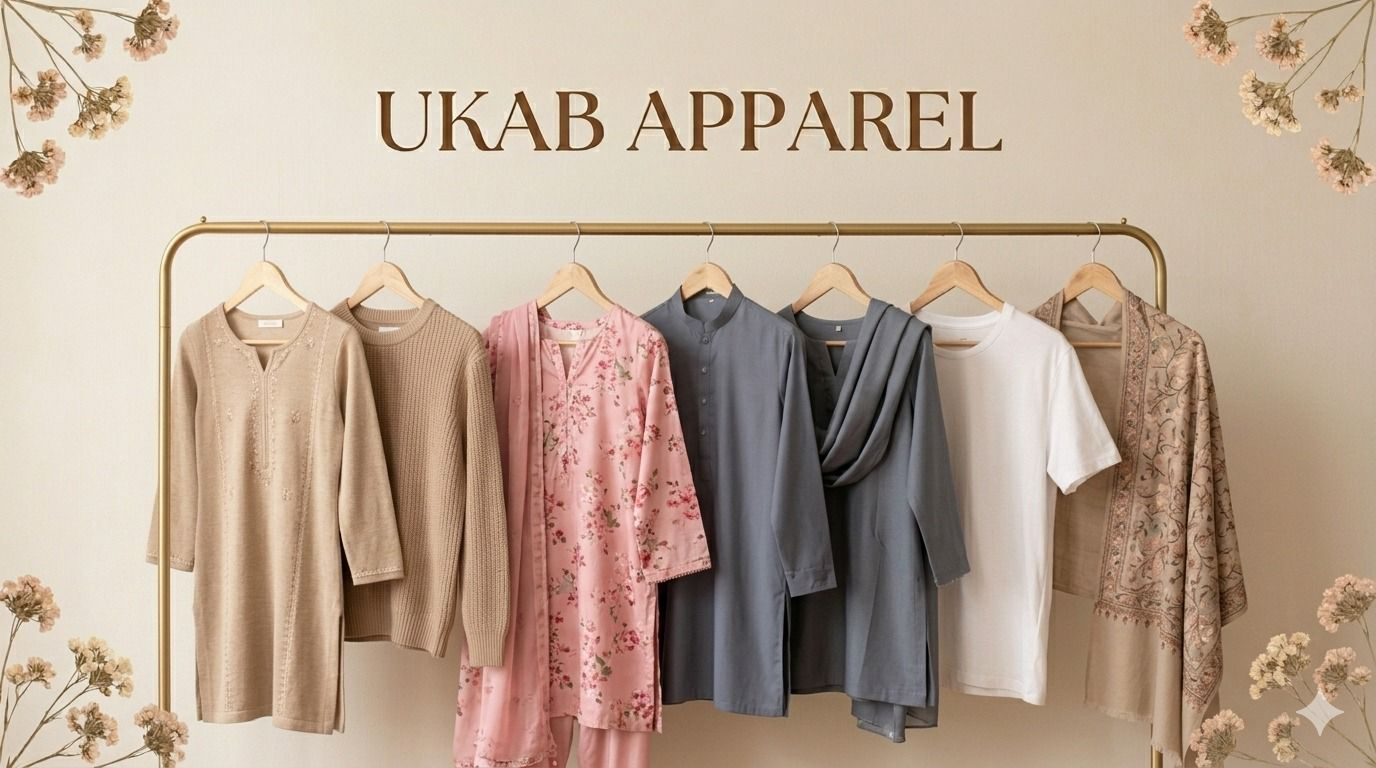
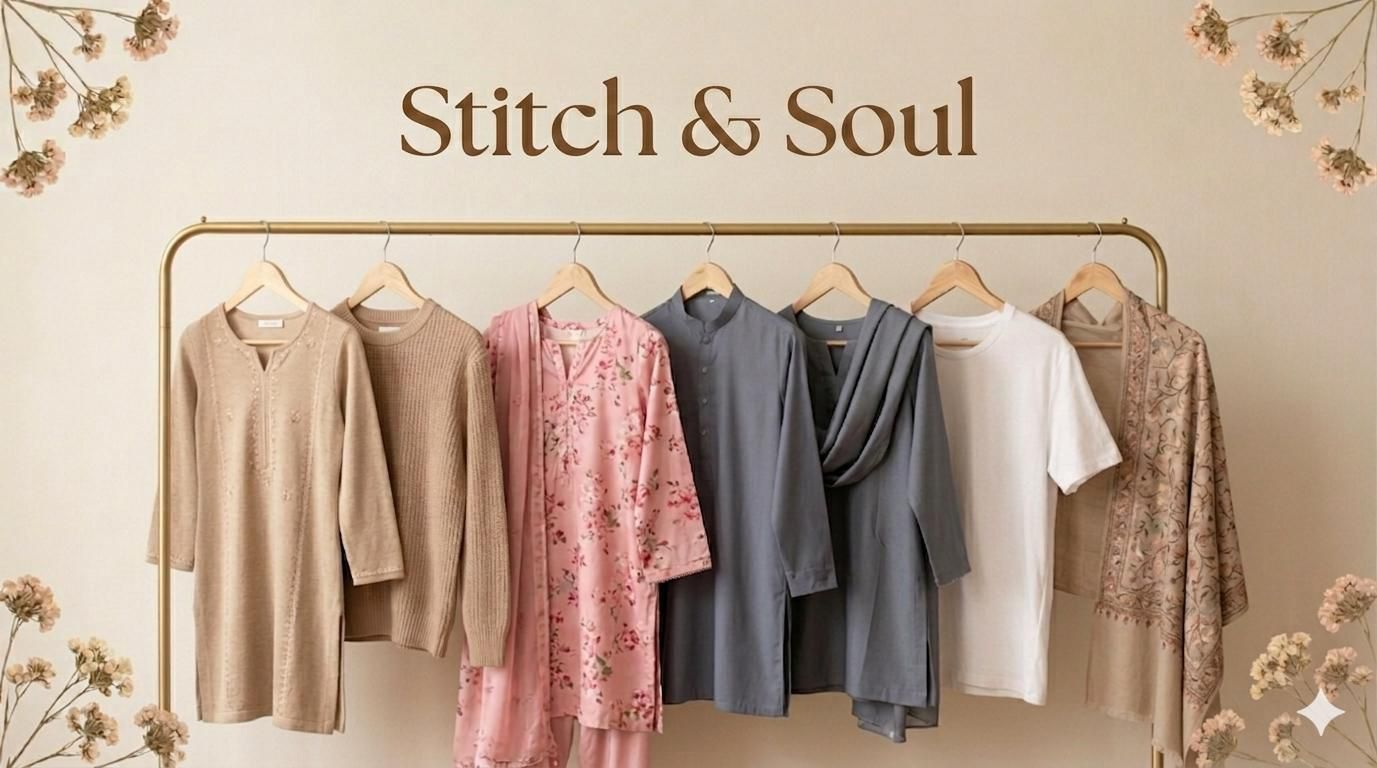
changes

diff --git a/script.js b/script.js
@@ -5,32 +5,61 @@
 
 // ── PRODUCT DATABASE ─────────────────────────────────────────
 const PRODUCTS = [
+  // ── EASTERN MEN ──────────────────────────────────────
   {
     id: 1,
-    name: "The Oxford Linen Shirt",
-    price: 145,
-    category: "casual",
-    sizes: ["XS","S","M","L","XL"],
-    colors: ["Ivory","Sand","Slate"],
-    description: "Meticulously tailored from 100% Belgian linen, the Oxford Shirt delivers effortless refinement for the modern wardrobe. Relaxed yet structured, it drapes beautifully.",
-    features: ["100% Premium Belgian Linen","Relaxed Tailored Fit","Ethically crafted in our Milan atelier"],
-    image: "images/WhatsApp Image 2026-05-07 at 7.04.36 PM.jpeg",
+    name: "Chocolate Kurta Pajama Set",
+    price: 165,
+    category: "eastern-men",
+    sizes: ["S","M","L","XL","XXL"],
+    colors: ["Chocolate","Cream","Black"],
+    description: "Traditional kurta pajama set in rich chocolate brown. A timeless piece offering comfort and elegance for any occasion. Perfect blend of heritage and contemporary style.",
+    features: ["100% Cotton Blend","Traditional Cut","Embroidered Detailing"],
+    image: "images/eastern male.jpeg",
     badge: null
   },
   {
     id: 2,
-    name: "Pleated Wool Trousers",
-    price: 280,
-    category: "formal",
-    sizes: ["28","30","32","34","36"],
-    colors: ["Charcoal","Navy","Camel"],
-    description: "High-waisted and beautifully draped, these pleated trousers redefine elevated dressing. Cut from a fine Italian wool blend that moves like silk.",
-    features: ["Italian Wool Blend","High-Rise Pleated Cut","Dry Clean Only"],
-    image: "images/WhatsApp Image 2026-05-07 at 7.04.36 PM (1).jpeg",
-    badge: "Bestseller"
+    name: "Cream Linen Kurta Set",
+    price: 148,
+    category: "eastern-men",
+    sizes: ["S","M","L","XL","XXL"],
+    colors: ["Cream","Off-White","Beige"],
+    description: "Lightweight cream linen kurta set ideal for summer gatherings. Breathable fabric with relaxed fit ensures all-day comfort.",
+    features: ["100% Premium Linen","Lightweight","Relaxed Fit"],
+    image: "images/eastern male2.jpeg",
+    badge: null
   },
   {
     id: 3,
+    name: "Midnight Black Formal Kurta",
+    price: 185,
+    category: "eastern-men",
+    sizes: ["S","M","L","XL","XXL"],
+    colors: ["Black","Charcoal","Navy"],
+    description: "Sophisticated black formal kurta for weddings and special events. Structured design with subtle embroidery for an upscale look.",
+    features: ["Premium Cotton","Formal Cut","Hand-stitched"],
+    image: "images/eastern male 3.jpeg",
+    badge: "Bestseller"
+  },
+  
+  // ── EASTERN WOMEN ────────────────────────────────────
+  {
+    id: 4,
+    name: "Embroidered Ethnic Ensemble",
+    price: 195,
+    category: "eastern-women",
+    sizes: ["XS","S","M","L","XL"],
+    colors: ["Crimson","Navy","Sapphire"],
+    description: "Beautiful ethnic ensemble featuring intricate embroidery. Perfect for festivals and celebrations with its vibrant colors and detailed craftsmanship.",
+    features: ["Premium Cotton Blend","Hand-Embroidered","Festival Ready"],
+    image: "images/eastern female.jpeg",
+    badge: "New"
+  },
+  
+  // ── WESTERN WEAR ─────────────────────────────────────
+  {
+    id: 5,
     name: "The Aveline Silk Slip",
     price: 485,
     category: "western",
@@ -39,13 +68,13 @@ const PRODUCTS = [
     description: "Cut on the bias from 100% heavyweight mulberry silk, the Aveline skims the body with a liquid-like fluidity. Designed with meticulous attention to drape.",
     features: ["100% Heavyweight Mulberry Silk (22 Momme)","Bias-cut for a fluid, adaptive fit","Ethically crafted in our Milan atelier"],
     image: "images/WhatsApp Image 2026-05-07 at 7.04.36 PM (2).jpeg",
-    badge: "New"
+    badge: null
   },
   {
-    id: 4,
-    name: "Oxford Wool Blazer",
+    id: 6,
+    name: "Structured Wool Blazer",
     price: 345,
-    category: "casual",
+    category: "western",
     sizes: ["XS","S","M","L","XL"],
     colors: ["Navy","Charcoal","Camel"],
     description: "Structured wool blend with satin lapels. A cornerstone of the considered wardrobe — equally commanding in a boardroom or gallery opening.",
@@ -54,7 +83,7 @@ const PRODUCTS = [
     badge: null
   },
   {
-    id: 5,
+    id: 7,
     name: "Silk Whisper Blouse",
     price: 195,
     category: "western",
@@ -66,7 +95,7 @@ const PRODUCTS = [
     badge: null
   },
   {
-    id: 6,
+    id: 8,
     name: "Artisan Leather Boots",
     price: 320,
     category: "western",
@@ -78,10 +107,10 @@ const PRODUCTS = [
     badge: null
   },
   {
-    id: 7,
-    name: "Cable Curator Knit",
+    id: 9,
+    name: "Premium Cable Knit",
     price: 195,
-    category: "casual",
+    category: "western",
     sizes: ["XS","S","M","L","XL"],
     colors: ["Sage","Oat","Charcoal"],
     description: "Heavyweight cotton-cashmere cable knit. The kind of sweater you reach for every morning without a second thought.",
@@ -90,19 +119,7 @@ const PRODUCTS = [
     badge: null
   },
   {
-    id: 8,
-    name: "The Linen Drape Dress",
-    price: 248,
-    category: "eastern",
-    sizes: ["XS","S","M","L"],
-    colors: ["Sage","Dusty Rose","Ivory"],
-    description: "Ethereal linen dress with a signature drape silhouette. Moves like water. Wears like a second skin.",
-    features: ["100% European Linen","Adjustable self-tie belt","Hand-finished hems"],
-    image: "images/WhatsApp Image 2026-05-07 at 7.04.38 PM (3).jpeg",
-    badge: null
-  },
-  {
-    id: 9,
+    id: 10,
     name: "Pearl Drop Necklace",
     price: 95,
     category: "western",
@@ -111,10 +128,10 @@ const PRODUCTS = [
     description: "Delicate gold chain with a single freshwater pearl drop. The detail that elevates everything.",
     features: ["18K Gold-Plated Chain","Freshwater Pearl Pendant","Lobster clasp closure"],
     image: "images/WhatsApp Image 2026-05-07 at 7.04.39 PM.jpeg",
-    badge: "New"
+    badge: null
   },
   {
-    id: 10,
+    id: 11,
     name: "Rattan Day Bag",
     price: 210,
     category: "western",
@@ -125,16 +142,66 @@ const PRODUCTS = [
     image: "images/WhatsApp Image 2026-05-07 at 7.04.45 PM.jpeg",
     badge: null
   },
+  
+  // ── SHAWLS ───────────────────────────────────────────
   {
-    id: 11,
-    name: "Oat Knit Sweater",
-    price: 140,
-    category: "casual",
-    sizes: ["XS","S","M","L","XL"],
-    colors: ["Oat","Stone","Navy"],
-    description: "Minimalist ribbed sweater in a warm oat tone. The foundation of any thoughtful wardrobe.",
-    features: ["Merino Wool Blend","Relaxed ribbed silhouette","Machine washable"],
-    image: "images/WhatsApp Image 2026-05-07 at 7.04.38 PM (1).jpeg",
+    id: 12,
+    name: "Charcoal & Burgundy Fringed Wrap",
+    price: 85,
+    category: "shawls",
+    sizes: ["One Size"],
+    colors: ["Charcoal","Burgundy"],
+    description: "Classic two-tone shawl with elegant fringe detailing. Versatile piece perfect for layering and adds instant sophistication to any outfit.",
+    features: ["Premium Wool Blend","Hand-Fringed Edges","Reversible Design"],
+    image: "images/shawl 1.jpeg",
+    badge: null
+  },
+  {
+    id: 13,
+    name: "Patterned Navy Weave Shawl",
+    price: 95,
+    category: "shawls",
+    sizes: ["One Size"],
+    colors: ["Navy","Beige"],
+    description: "Sophisticated patterned shawl with intricate textile borders. The perfect accessory for both casual and formal occasions.",
+    features: ["Premium Wool","Traditional Weave","Decorative Borders"],
+    image: "images/shawl 2.jpeg",
+    badge: "New"
+  },
+  {
+    id: 14,
+    name: "Cream Wrap Shawl",
+    price: 75,
+    category: "shawls",
+    sizes: ["One Size"],
+    colors: ["Cream","Ivory"],
+    description: "Minimalist cream shawl with clean lines. A timeless piece that complements any wardrobe and works seamlessly for all seasons.",
+    features: ["100% Pure Wool","Smooth Finish","Lightweight"],
+    image: "images/shawl 3.jpeg",
+    badge: null
+  },
+  {
+    id: 15,
+    name: "Ornate Red & Cream Pashmina",
+    price: 155,
+    category: "shawls",
+    sizes: ["One Size"],
+    colors: ["Red","Cream","Gold"],
+    description: "Luxurious pashmina with ornate embroidered borders. A traditional masterpiece showcasing intricate craftsmanship and rich heritage patterns.",
+    features: ["Premium Pashmina","Hand-Embroidered Borders","Traditional Design"],
+    image: "images/shawl 4.jpeg",
+    badge: "Bestseller"
+  },
+  {
+    id: 16,
+    name: "Cream Striped Border Shawl",
+    price: 88,
+    category: "shawls",
+    sizes: ["One Size"],
+    colors: ["Cream","Brown","White"],
+    description: "Classic cream shawl featuring subtle brown and white striped borders. Elegant and versatile, perfect for everyday wear and special occasions alike.",
+    features: ["Premium Wool","Striped Border Detail","Versatile Design"],
+    image: "images/shawl 5.jpeg",
     badge: null
   }
 ];

diff --git a/index.html b/index.html
@@ -102,25 +102,25 @@ tailwind.config = {
       </a>
     </div>
     <div class="grid grid-cols-2 md:grid-cols-4 gap-4">
-      <a href="category.html?cat=eastern" class="group relative col-span-2 row-span-2 aspect-[4/5] md:aspect-auto rounded overflow-hidden">
-        <img src="images/WhatsApp Image 2026-05-07 at 7.04.38 PM (3).jpeg" alt="Eastern Wear" class="w-full h-full object-cover group-hover:scale-105 transition-transform duration-700"/>
+      <a href="category.html?cat=eastern-women" class="group relative col-span-2 row-span-2 aspect-[4/5] md:aspect-auto rounded overflow-hidden">
+        <img src="images/eastern female.jpeg" alt="Eastern Women" class="w-full h-full object-cover group-hover:scale-105 transition-transform duration-700"/>
         <div class="absolute inset-0 bg-gradient-to-t from-on-surface/60 to-transparent"></div>
-        <span class="absolute bottom-6 left-6 font-headline text-2xl text-white">Eastern Wear</span>
+        <span class="absolute bottom-6 left-6 font-headline text-2xl text-white">Eastern Women</span>
+      </a>
+      <a href="category.html?cat=eastern-men" class="group relative aspect-[4/3] rounded overflow-hidden">
+        <img src="images/eastern male.jpeg" alt="Eastern Men" class="w-full h-full object-cover group-hover:scale-105 transition-transform duration-700"/>
+        <div class="absolute inset-0 bg-gradient-to-t from-on-surface/60 to-transparent"></div>
+        <span class="absolute bottom-4 left-4 font-headline text-xl text-white">Eastern Men</span>
       </a>
       <a href="category.html?cat=western" class="group relative aspect-[4/3] rounded overflow-hidden">
-        <img src="images/WhatsApp Image 2026-05-07 at 7.04.37 PM (1).jpeg" alt="Western Wear" class="w-full h-full object-cover group-hover:scale-105 transition-transform duration-700"/>
+        <img src="images/western 1.jpeg" alt="Western Wear" class="w-full h-full object-cover group-hover:scale-105 transition-transform duration-700"/>
         <div class="absolute inset-0 bg-gradient-to-t from-on-surface/60 to-transparent"></div>
-        <span class="absolute bottom-4 left-4 font-headline text-xl text-white">Western Wear</span>
+        <span class="absolute bottom-4 left-4 font-headline text-xl text-white">Western</span>
       </a>
-      <a href="category.html?cat=casual" class="group relative aspect-[4/3] rounded overflow-hidden">
-        <img src="images/WhatsApp Image 2026-05-07 at 7.04.38 PM (1).jpeg" alt="Casual Wear" class="w-full h-full object-cover group-hover:scale-105 transition-transform duration-700"/>
+      <a href="category.html?cat=shawls" class="group relative aspect-[4/3] col-span-2 rounded overflow-hidden">
+        <img src="images/shawl 1.jpeg" alt="Shawls" class="w-full h-full object-cover group-hover:scale-105 transition-transform duration-700"/>
         <div class="absolute inset-0 bg-gradient-to-t from-on-surface/60 to-transparent"></div>
-        <span class="absolute bottom-4 left-4 font-headline text-xl text-white">Casual Wear</span>
-      </a>
-      <a href="category.html?cat=formal" class="group relative aspect-[4/3] col-span-2 rounded overflow-hidden bg-surface-container flex items-center justify-center">
-        <span class="font-headline text-2xl text-on-surface-variant group-hover:text-primary transition-colors flex items-center gap-2">
-          Formal Wear <span class="material-symbols-outlined">arrow_forward</span>
-        </span>
+        <span class="absolute bottom-4 left-4 font-headline text-xl text-white">Shawls</span>
       </a>
     </div>
   </section>

diff --git a/category.html b/category.html
@@ -80,20 +80,20 @@ tailwind.config = {
       <div class="flex flex-col gap-3">
         <h3 class="font-label text-sm uppercase tracking-[0.1em] text-secondary">Category</h3>
         <label class="flex items-center gap-3 cursor-pointer group">
-          <input type="checkbox" value="eastern" class="filter-cat form-checkbox h-4 w-4 text-primary rounded-sm"/>
-          <span class="font-body text-on-surface group-hover:text-primary transition-colors text-sm">Eastern</span>
+          <input type="checkbox" value="eastern-men" class="filter-cat form-checkbox h-4 w-4 text-primary rounded-sm"/>
+          <span class="font-body text-on-surface group-hover:text-primary transition-colors text-sm">Eastern Men</span>
+        </label>
+        <label class="flex items-center gap-3 cursor-pointer group">
+          <input type="checkbox" value="eastern-women" class="filter-cat form-checkbox h-4 w-4 text-primary rounded-sm"/>
+          <span class="font-body text-on-surface group-hover:text-primary transition-colors text-sm">Eastern Women</span>
         </label>
         <label class="flex items-center gap-3 cursor-pointer group">
           <input type="checkbox" value="western" class="filter-cat form-checkbox h-4 w-4 text-primary rounded-sm"/>
           <span class="font-body text-on-surface group-hover:text-primary transition-colors text-sm">Western</span>
         </label>
         <label class="flex items-center gap-3 cursor-pointer group">
-          <input type="checkbox" value="casual" class="filter-cat form-checkbox h-4 w-4 text-primary rounded-sm"/>
-          <span class="font-body text-on-surface group-hover:text-primary transition-colors text-sm">Casual</span>
-        </label>
-        <label class="flex items-center gap-3 cursor-pointer group">
-          <input type="checkbox" value="formal" class="filter-cat form-checkbox h-4 w-4 text-primary rounded-sm"/>
-          <span class="font-body text-on-surface group-hover:text-primary transition-colors text-sm">Formal</span>
+          <input type="checkbox" value="shawls" class="filter-cat form-checkbox h-4 w-4 text-primary rounded-sm"/>
+          <span class="font-body text-on-surface group-hover:text-primary transition-colors text-sm">Shawls</span>
         </label>
       </div>
 